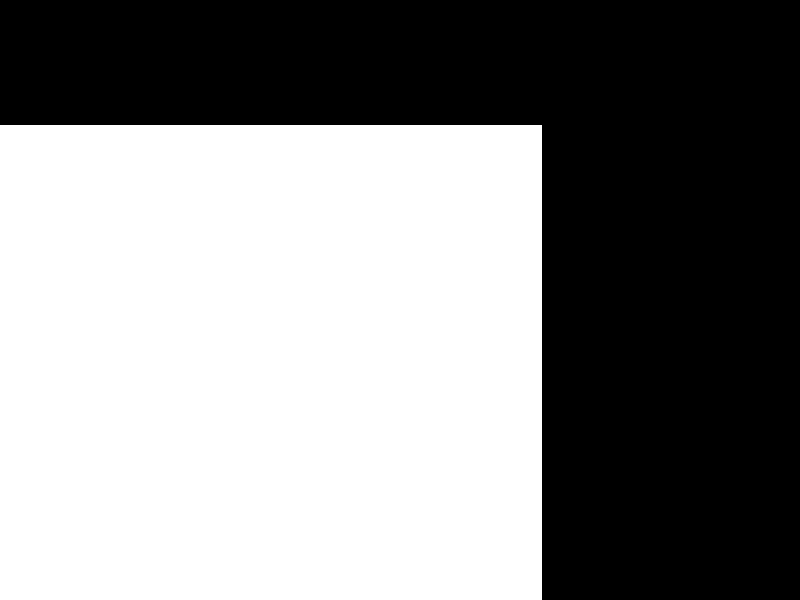
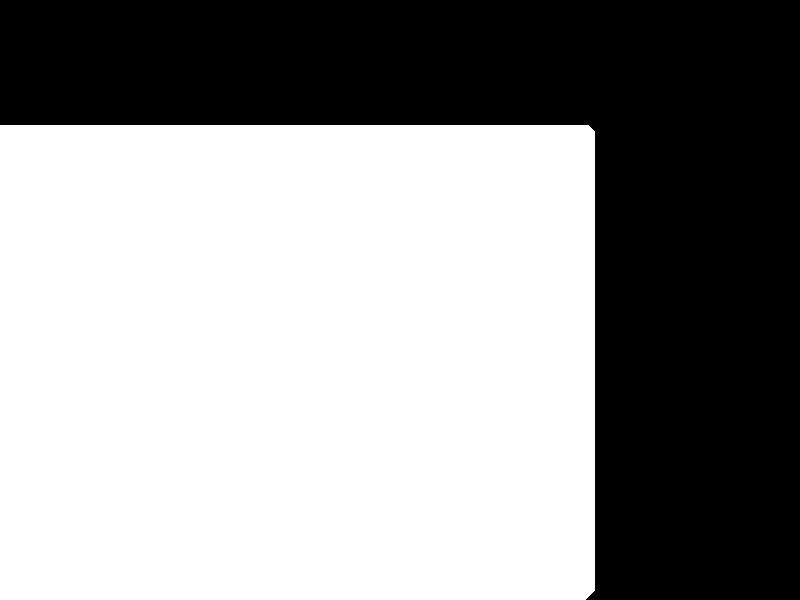
change UI layout

Changed region(s): [[0.6562, 0.21, 0.75, 1.0]]

diff --git a/bin/WeatherStation.py b/bin/WeatherStation.py
@@ -395,7 +395,7 @@ def WeatherSwitch(index):
 
 def DrawWeather(draw,Himage):
     for x in range(0,3):
-        draw.text((580,145 + x *155),WeatherStrSwitch(x), font = fontSize20, fill = 0)
+        draw.text((630,145 + x *155),WeatherStrSwitch(x), font = fontSize20, fill = 0)
         strWeather = tempArray[WeatherSwitch(x)]
         #风力
         windTemp = tempArray[WeatherSwitch(x)+1] + tempArray[WeatherSwitch(x)+2]
@@ -403,12 +403,12 @@ def DrawWeather(draw,Himage):
         #图标
         pathIcon = UpdateWeatherIcon(strWeather)
         tempTypeIcon = Image.open(rootPath + "/pic/weatherType/" + pathIcon)
-        Himage.paste(tempTypeIcon,(580,180 + x*155))
+        Himage.paste(tempTypeIcon,(630,180 + x*155))
         #天气
-        draw.text((660,188 + x *155),strWeather, font = fontSize25, fill = 0)
+        draw.text((690,188 + x *155),strWeather, font = fontSize25, fill = 0)
         #温度
         forecastTemp = ReplaceLowTemp(tempArray[WeatherSwitch(x)-2])+"-"+ReplaceHeightTemp(tempArray[WeatherSwitch(x)-1]) +" 度"
-        draw.text((650,220 + x *155),forecastTemp, font = fontSize20, fill = 0)
+        draw.text((680,220 + x *155),forecastTemp, font = fontSize20, fill = 0)
 
 def ClearScreen():
     global config
